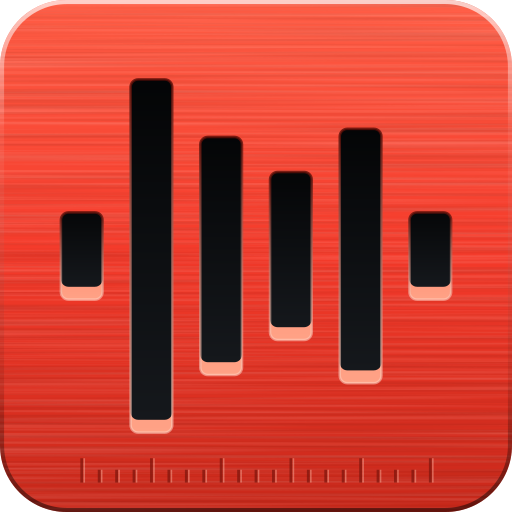
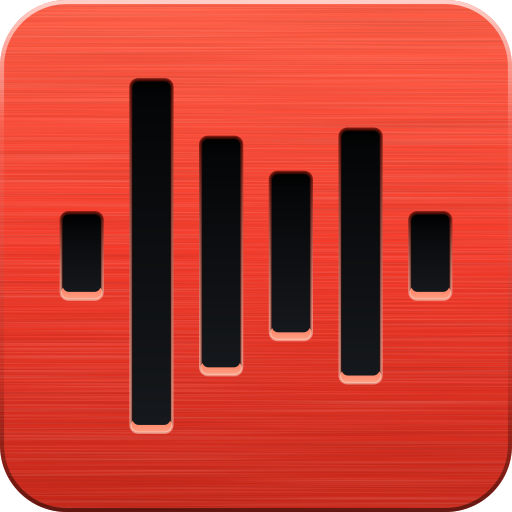
Follow the brand to 2026-11-18: no ruler on the panel, lamps that heat (v1.3.2)
Synced against innerpulse-brand main at 92e3107.

- Instrument trim stays on instruments (brand cc51344, 2026-11-14): scales
  and ruler ticks are kept for things that measure, and a glass edge is its
  hairline and highlight lip and nothing else. The panel's graduated scale
  is gone from every variant, and from the look-and-feel and README
  previews.
- Lamps heat instead of fading (brand 74faea3): each slot is two layers,
  the ignite ember #a51c10 at min(1, 2l) under the hot lamp #ffd9c2 at
  max(0, 2l - 1), so a lit slot never passes through gray. The live plate
  (splash, lock screen, logout prompt) and the boot screen's lamp bitmaps
  both draw it; mark.mjs carries IGNITE and lampLayers.
- Lit bars mix in OKLCH (brand ee5adc2, the working line): litColor, which
  lights the busy cursors' bars, no longer passes through salmon halfway.
- App icons from the brand kit: the machined plate at 64-512 px has
  nothing engraved under its slots and the new pocketed slots (d4daceb,
  dd30e27, ee5adc2), and the whole-pixel 48 px plate is centered.

Unchanged on purpose: the 12 px index tick (the brand's 16 px is for the
studio's web pages) and 4 px corners (the 8 px panes are the web glass;
the desktop steel keeps one 4 px radius).

diff --git a/src/qml/AmbientMark.qml b/src/qml/AmbientMark.qml
@@ -4,8 +4,10 @@
 
     The plate never moves. On load its slots open once, bar by bar from the left, in about a second; then every
     period one pulse of light passes through the slots, left to right, each slot lit with a sin² bump and going
-    dark again. A pulse is over in (5·lag + width)·period, and between pulses nothing redraws, which matters under
-    the lock screen's live blur. The slots are cut through, so between pulses they show whatever is behind.
+    dark again. A lamp heats rather than fades: two layers, the ignite ember coming up over the first half of the
+    bump and the hot lamp blooming over it, so a slot never passes through gray (the brand kit's lampLayers). A
+    pulse is over in (5·lag + width)·period, and between pulses nothing redraws, which matters under the lock
+    screen's live blur. The slots are cut through, so between pulses they show whatever is behind.
 
     The mark holds still, slots open and dark, when animations are turned off, when it is drawn under 48 px, or
     when its owner clears `beating`. `period` is the ambient tempo unless the owner sets another (the splash runs
@@ -24,6 +26,7 @@ Item {
 
     property color color: "#f43a2a"
     property color lamp: "#ffd9c2" /*@LAMP@*/
+    property color ignite: "#a51c10" /*@IGNITE@*/
     property bool beating: true
     property bool settled: false
     property real period: 4.5 /*@AMBIENT@*/
@@ -110,20 +113,23 @@ Item {
     // turned off mid-pulse (and not by `settled`, which lets the pulse finish): go dark at once
     onBeatingChanged: if (!beating) { pulse.running = false; t = 0; }
 
-    // the lamps, under the plate: one per slot, seen through it as the pulse passes
+    // the lamps, under the plate: two layers per slot, seen through it as the pulse passes. Even entries are the
+    // ignite layer at min(1, 2·lit), odd ones the hot lamp over it at max(0, 2·lit − 1).
     Repeater {
-        model: mark.beats + 1
+        model: 2 * (mark.beats + 1)
         Rectangle {
             required property int index
-            readonly property real h: mark.slotH(index)
+            readonly property int slot: index >> 1
+            readonly property bool hot: index & 1
+            readonly property real h: mark.slotH(slot)
             visible: opacity > 0
-            opacity: mark.lit(index)
-            x: mark.width / 2 + mark.slotX(index) * mark.s
+            opacity: Math.min(1, Math.max(0, hot ? 2 * mark.lit(slot) - 1 : 2 * mark.lit(slot)))
+            x: mark.width / 2 + mark.slotX(slot) * mark.s
             y: mark.height / 2 - h * mark.s
             width: mark.stroke * mark.cut * mark.s
             height: 2 * h * mark.s
             radius: mark.corner * mark.cut * mark.s
-            color: mark.lamp
+            color: hot ? mark.lamp : mark.ignite
             antialiasing: true
         }
     }

diff --git a/README.md b/README.md
@@ -26,14 +26,14 @@ These previews are illustrations drawn from the theme's own palette and geometry
 | Part | What it does |
 |---|---|
 | Color schemes `InnerpulseInk`, `InnerpulsePaper`, `InnerpulseCarbon` | Warm ink surfaces, paper, or carbon with brushed-steel text. Three text grays that clear WCAG AA. Selection is the action red with white text (5.1:1), or blued steel at 5.0:1 in Carbon. Focus rings are ember, links violet, and status colors mint, amber and soft red. Every text, focus and hover pair in the schemes and Konsole sets is checked when the theme is built, and the build fails if one drops below WCAG AA (the text in an unfocused GTK entry selection, under Known limitations, is the documented exception) |
-| Plasma themes `innerpulse`, `innerpulse-paper`, `innerpulse-carbon` | One per variant: colors follow the active scheme, while the glass and shadows are tuned to each ground. Panels have machined 4 px corners, a hairline and a faint graduated scale along the long edge. Popups carry one ember index tick at the top left, with a faint band under their headers. In menus, launchers and combo box lists the row index turns ember. The focused task gets an ember bar on the panel side; tasks that want attention get amber. The pager raises the current desktop in glass. Check boxes, radio buttons, switches, sliders, progress bars and scroll bars are drawn in steel rather than the selection color (Plasma still colors a stepped slider's tick marks itself); the busy indicator is a turning steel arc, never the mark |
+| Plasma themes `innerpulse`, `innerpulse-paper`, `innerpulse-carbon` | One per variant: colors follow the active scheme, while the glass and shadows are tuned to each ground. Panels have machined 4 px corners, and their edge is a hairline and a highlight lip with nothing else on it: the brand keeps scales and ruler ticks for things that measure. Popups carry one ember index tick at the top left, with a faint band under their headers. In menus, launchers and combo box lists the row index turns ember. The focused task gets an ember bar on the panel side; tasks that want attention get amber. The pager raises the current desktop in glass. Check boxes, radio buttons, switches, sliders, progress bars and scroll bars are drawn in steel rather than the selection color (Plasma still colors a stepped slider's tick marks itself); the busy indicator is a turning steel arc, never the mark |
 | Glass | Surfaces are lit from above: a sheen through the top edge, a 1 px highlight lip and a faint shade at the foot. Panels and popups are frosted (about three quarters ground, blurred behind). Apps get the same material from the application style below |
 | Application style `InnerpulseCarbon`, `InnerpulseInk`, `InnerpulsePaper` | Smoked glass for Qt apps, drawn by the Kvantum engine from one generated SVG per variant. A window's ground carries a soft glow from its top edge. Buttons, combo boxes and the selected tab are raised glass with a bright lip; fields, grooves and check boxes are wells. Hover is a soft glow in the hover color that fades in, keyboard focus is an ember ring (a focused view, such as a file list or an editor, takes a single ember hairline, so the live pane of a split view is marked without a red box round the window), and sliders and progress bars fill in steel. Without Kvantum installed, `--apply` uses Oxygen's glass recolored by the scheme (`--style oxygen`); `--style breeze` gives flat widgets |
 | Icons `innerpulse`, `innerpulse Light` | Places, file types, drives and a few generic apps as smoked glass over the family tints, drawn at 16, 22, 32 and 64 px. Toolbar and action icons stay Breeze's, so a toolbar never mixes two line styles. The loading throbber is the six bars running the beat, in the text color. No icon imitates the mark |
 | Cursors `innerpulse`, `innerpulse (still)` | Dark glass pointers with a bright rim, as scalable SVG for Plasma and as classic cursor files for other apps. Two shapes move: the wait cursor is the six bars retaking the reading every 2.4 s, and the progress cursor carries the bars beside the arrow with light passing through them every 1.2 s. The still theme holds the bars at rest; `--apply` picks it when animations are off |
 | Window decorations (Aurorae) | Glass title bar, hairline ring and a soft shadow lit from above, with the ember index tick on the active window only. Buttons lift onto a glass tile on hover; close lifts onto the action red. Toggles that are on (all desktops, keep above or below, shade) sit sunken with a bar under the glyph. Each variant also comes as `innerpulse … (frosted title bar)`, whose active title bar is translucent and blurred behind |
 | Wallpapers | The OLED set: sixteen images in four sets (Afterglow Prism, Phosphor Harmonics, Chromatic Helix, Pulse Chronograph) on a true black ground, each in 2560 × 1440, 3440 × 1440, 3840 × 2160 and 5120 × 2160, so 16:9 and 21:9 screens both get a native rendition. Each image's footer, the wordmark at the left and its caption at the right, is lifted clear of a bottom panel when the theme is built (46 px at 1440 and 69 at 2160; Chromatic Ribbon's stops at 16 and 26 under its lowest lobe, which still clears Plasma's default floating panel). **Afterglow Prism** is the default for every variant. A quiet ground, the same black with nothing on it, is there for a second screen (`--quiet-second-screen`) |
-| The mark | The plate: the beat cut out of a solid ember tile, as the brand now draws it. Where the viewer rests or waits (the splash, the lock screen, the logout prompt) it is live: its slots open once, then a pulse of light passes through them. The plate itself never moves. In a panel, where it would be under 32 px, the mark is the six bars alone. The bars themselves move in two places only: the busy cursors and the loading throbber |
+| The mark | The plate: the beat cut out of a solid ember tile, as the brand now draws it. Where the viewer rests or waits (the splash, the lock screen, the logout prompt) it is live: its slots open once, then a pulse of light passes through them. Each slot heats as the pulse passes, through the deep ignite ember to the hot lamp, so it never goes gray. The plate itself never moves. From 64 px the app icon is the machined plate, with nothing engraved under its slots. In a panel, where it would be under 32 px, the mark is the six bars alone. The bars themselves move in two places only: the busy cursors and the loading throbber |
 | Splash screen | The plate on carbon, centered, with the wordmark under it. Its slots open, then a pulse of light passes through them every 2.4 s while Plasma starts, over a working line that shows the real elapsed time. When start-up is done the pulse in flight finishes and the screen fades. It holds still when animations are off, and the timer then counts whole seconds |
 | Boot screen `innerpulse` | A Plymouth theme: the splash's picture from the first frame the kernel can draw, and again on the way down. The plate on carbon with the wordmark under it; its slots open once, then a pulse of light passes through them every 2.4 s. The line at the foot says which way the machine is going and shows whatever the system sends (a disk check, a passphrase prompt in a glass field). No progress bar and no timer: Plymouth's progress is an estimate from the last boot. Installed system-wide by `--boot` |
 | Lock screen | The variant's ground with the plate low and to the right, so the clock, avatar, password field and footer sit on clear ground, shown by a small wallpaper plugin (`net.innerpulse.lock`) that draws the live plate over the resting one, a pulse of light every 4.5 s. It holds still when animations are off |
